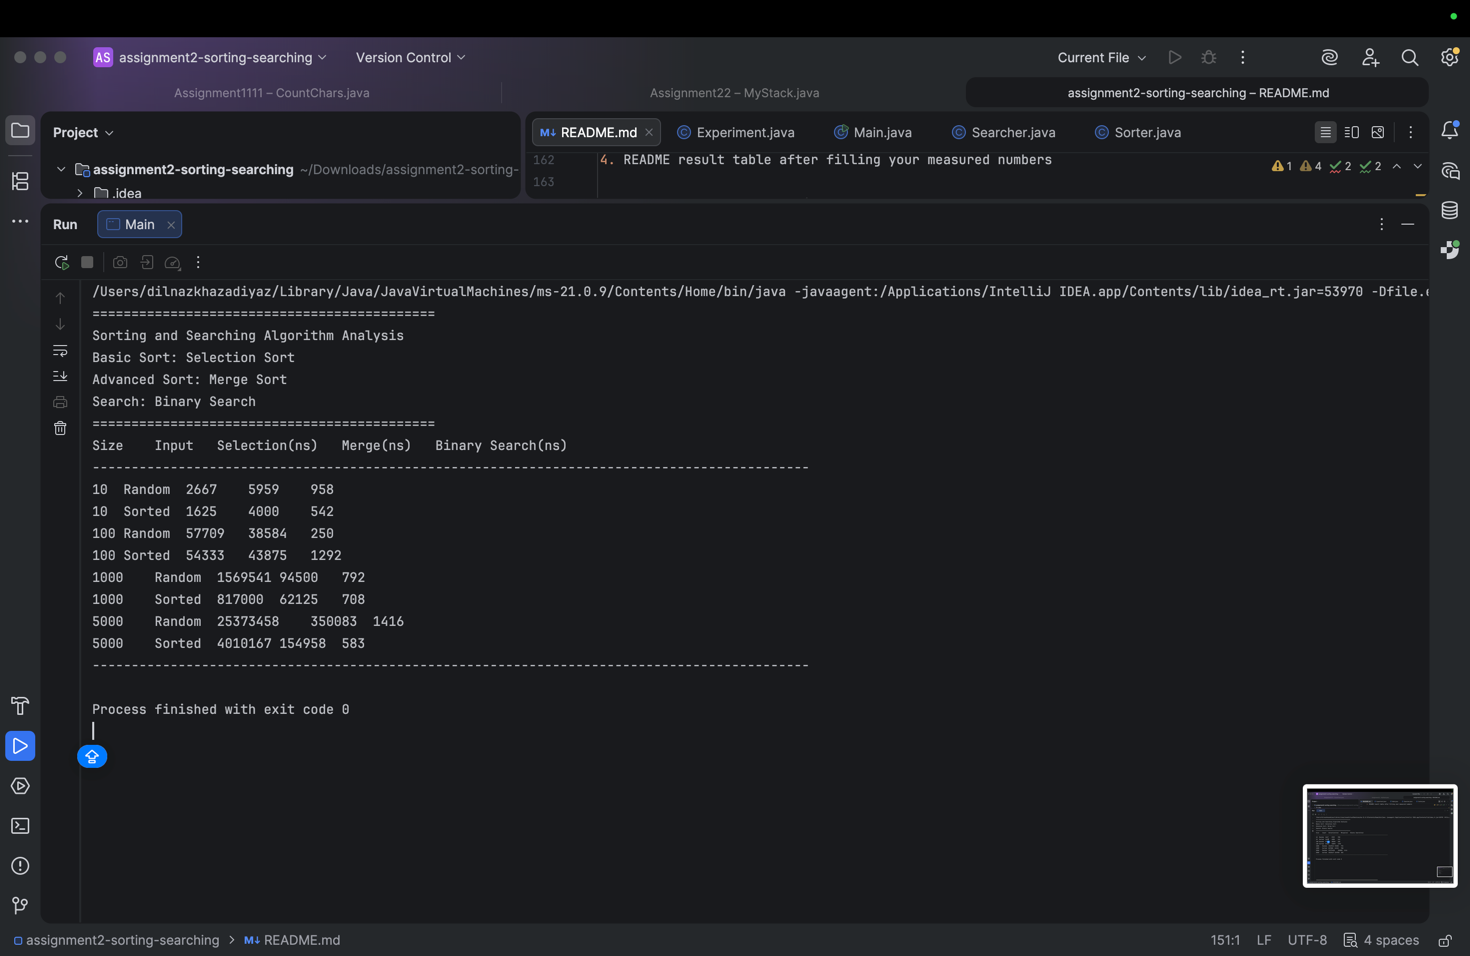
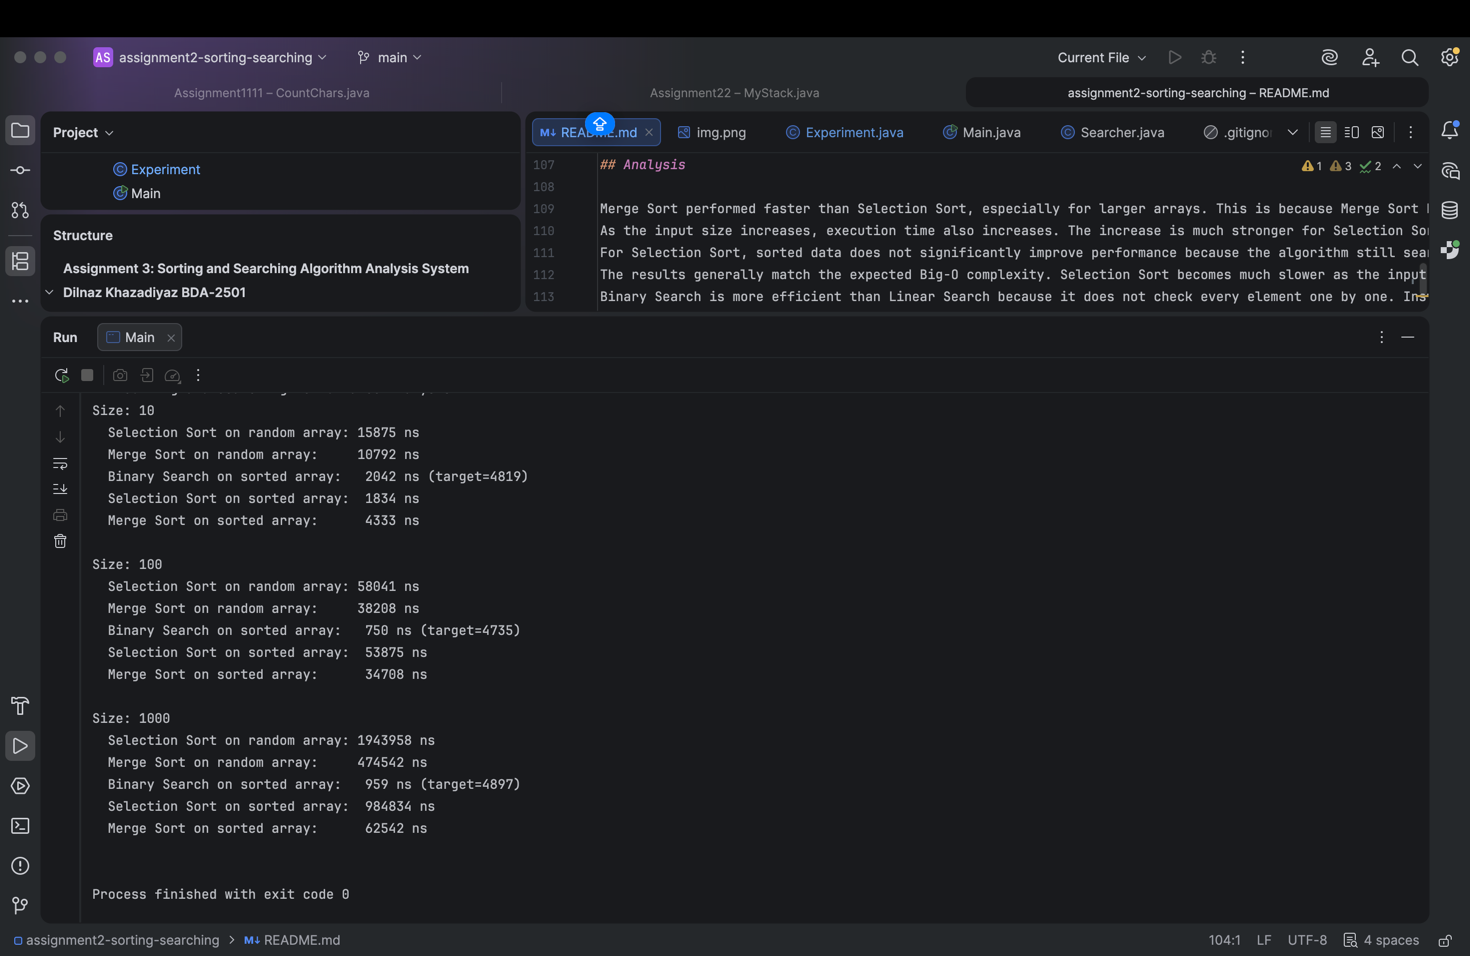
F

diff --git a/src/Experiment.java b/src/Experiment.java
@@ -1,4 +1,5 @@
 import java.util.Arrays;
+
 public class Experiment {
     private final Sorter sorter;
     private final Searcher searcher;
@@ -7,83 +8,53 @@ public class Experiment {
         this.sorter = sorter;
         this.searcher = searcher;
     }
+
     public long measureSortTime(int[] arr, String type) {
-        if (arr == null) {
-            throw new IllegalArgumentException("Array cannot be null.");
-        }
-
         int[] copy = Arrays.copyOf(arr, arr.length);
-
-        long startTime = System.nanoTime();
-
-        if (type.equalsIgnoreCase("basic")) {
+        long start = System.nanoTime();
+        if ("basic".equalsIgnoreCase(type)) {
             sorter.basicSort(copy);
-        } else if (type.equalsIgnoreCase("advanced")) {
+        } else if ("advanced".equalsIgnoreCase(type)) {
             sorter.advancedSort(copy);
         } else {
-            throw new IllegalArgumentException("Sort type must be 'basic' or 'advanced'.");
+            throw new IllegalArgumentException("Unknown sort type: " + type);
         }
-
-        long endTime = System.nanoTime();
-        return endTime - startTime;
+        return System.nanoTime() - start;
     }
 
     public long measureSearchTime(int[] arr, int target) {
-        if (arr == null) {
-            throw new IllegalArgumentException("Array cannot be null.");
-        }
-
-        int[] copy = Arrays.copyOf(arr, arr.length);
-        sorter.advancedSort(copy);
-
-        long startTime = System.nanoTime();
-        searcher.search(copy, target);
-        long endTime = System.nanoTime();
-
-        return endTime - startTime;
+        long start = System.nanoTime();
+        searcher.search(arr, target);
+        return System.nanoTime() - start;
     }
+
     public void runAllExperiments() {
-        int[] sizes = {10, 100, 1000, 5000};
+        int[] sizes = {10, 100, 1000};
 
-        System.out.println("============================================");
-        System.out.println("Sorting and Searching Algorithm Analysis");
-        System.out.println("Basic Sort: Selection Sort");
-        System.out.println("Advanced Sort: Merge Sort");
-        System.out.println("Search: Binary Search");
-        System.out.println("============================================");
-
-        System.out.println("Size\tInput\tSelection(ns)\tMerge(ns)\tBinary Search(ns)");
-        System.out.println("--------------------------------------------------------------------------------------------");
+        System.out.println("=== Sorting and Searching Performance Analysis ===");
 
         for (int size : sizes) {
             int[] randomArray = sorter.generateRandomArray(size);
-            int[] sortedArray = generateSortedArray(size);
+            int[] sortedArray = Arrays.copyOf(randomArray, randomArray.length);
+            Arrays.sort(sortedArray);
 
-            runExperimentForArray(size, "Random", randomArray);
-            runExperimentForArray(size, "Sorted", sortedArray);
+            int target = sortedArray[size / 2];
+
+            long basicRandom = measureSortTime(randomArray, "basic");
+            long advancedRandom = measureSortTime(randomArray, "advanced");
+            long searchTime = measureSearchTime(sortedArray, target);
+
+            System.out.println("Size: " + size);
+            System.out.println("  Selection Sort on random array: " + basicRandom + " ns");
+            System.out.println("  Merge Sort on random array:     " + advancedRandom + " ns");
+            System.out.println("  Binary Search on sorted array:   " + searchTime + " ns (target=" + target + ")");
+
+            long basicSorted = measureSortTime(sortedArray, "basic");
+            long advancedSorted = measureSortTime(sortedArray, "advanced");
+
+            System.out.println("  Selection Sort on sorted array:  " + basicSorted + " ns");
+            System.out.println("  Merge Sort on sorted array:      " + advancedSorted + " ns");
+            System.out.println();
         }
-
-        System.out.println("--------------------------------------------------------------------------------------------");
-    }
-
-    private void runExperimentForArray(int size, String inputType, int[] array) {
-        int target = array[array.length / 2];
-
-        long basicTime = measureSortTime(array, "basic");
-        long advancedTime = measureSortTime(array, "advanced");
-        long searchTime = measureSearchTime(array, target);
-
-        System.out.println(size + "\t" + inputType + "\t"
-                + basicTime + "\t" + advancedTime + "\t" + searchTime);
-    }
-
-    private int[] generateSortedArray(int size) {
-        int[] arr = new int[size];
-
-        for (int i = 0; i < size; i++) {
-            arr[i] = i + 1;
-        }
-
-        return arr;
     }
 }

diff --git a/README.md b/README.md
@@ -102,21 +102,6 @@ It also tests two input types:
 - Random arrays
 - Sorted arrays
 
-Example output format:
-
-| Size | Input Type | Selection Sort (ns) | Merge Sort (ns) | Binary Search (ns) |
-|---:|---|---:|---:|---:|
-| 10 | Random | Add your result | Add your result | Add your result |
-| 10 | Sorted | Add your result | Add your result | Add your result |
-| 100 | Random | Add your result | Add your result | Add your result |
-| 100 | Sorted | Add your result | Add your result | Add your result |
-| 1000 | Random | Add your result | Add your result | Add your result |
-| 1000 | Sorted | Add your result | Add your result | Add your result |
-| 5000 | Random | Add your result | Add your result | Add your result |
-| 5000 | Sorted | Add your result | Add your result | Add your result |
-
-
-
 ---
 
 ## Analysis
@@ -131,8 +116,7 @@ Binary Search requires a sorted array because it decides whether to search the l
 ---
 
 ## D. Screenshots
-![Program Output](docs/screenshots/img.png)
-
+![img.png](img.png)
 
 
 
